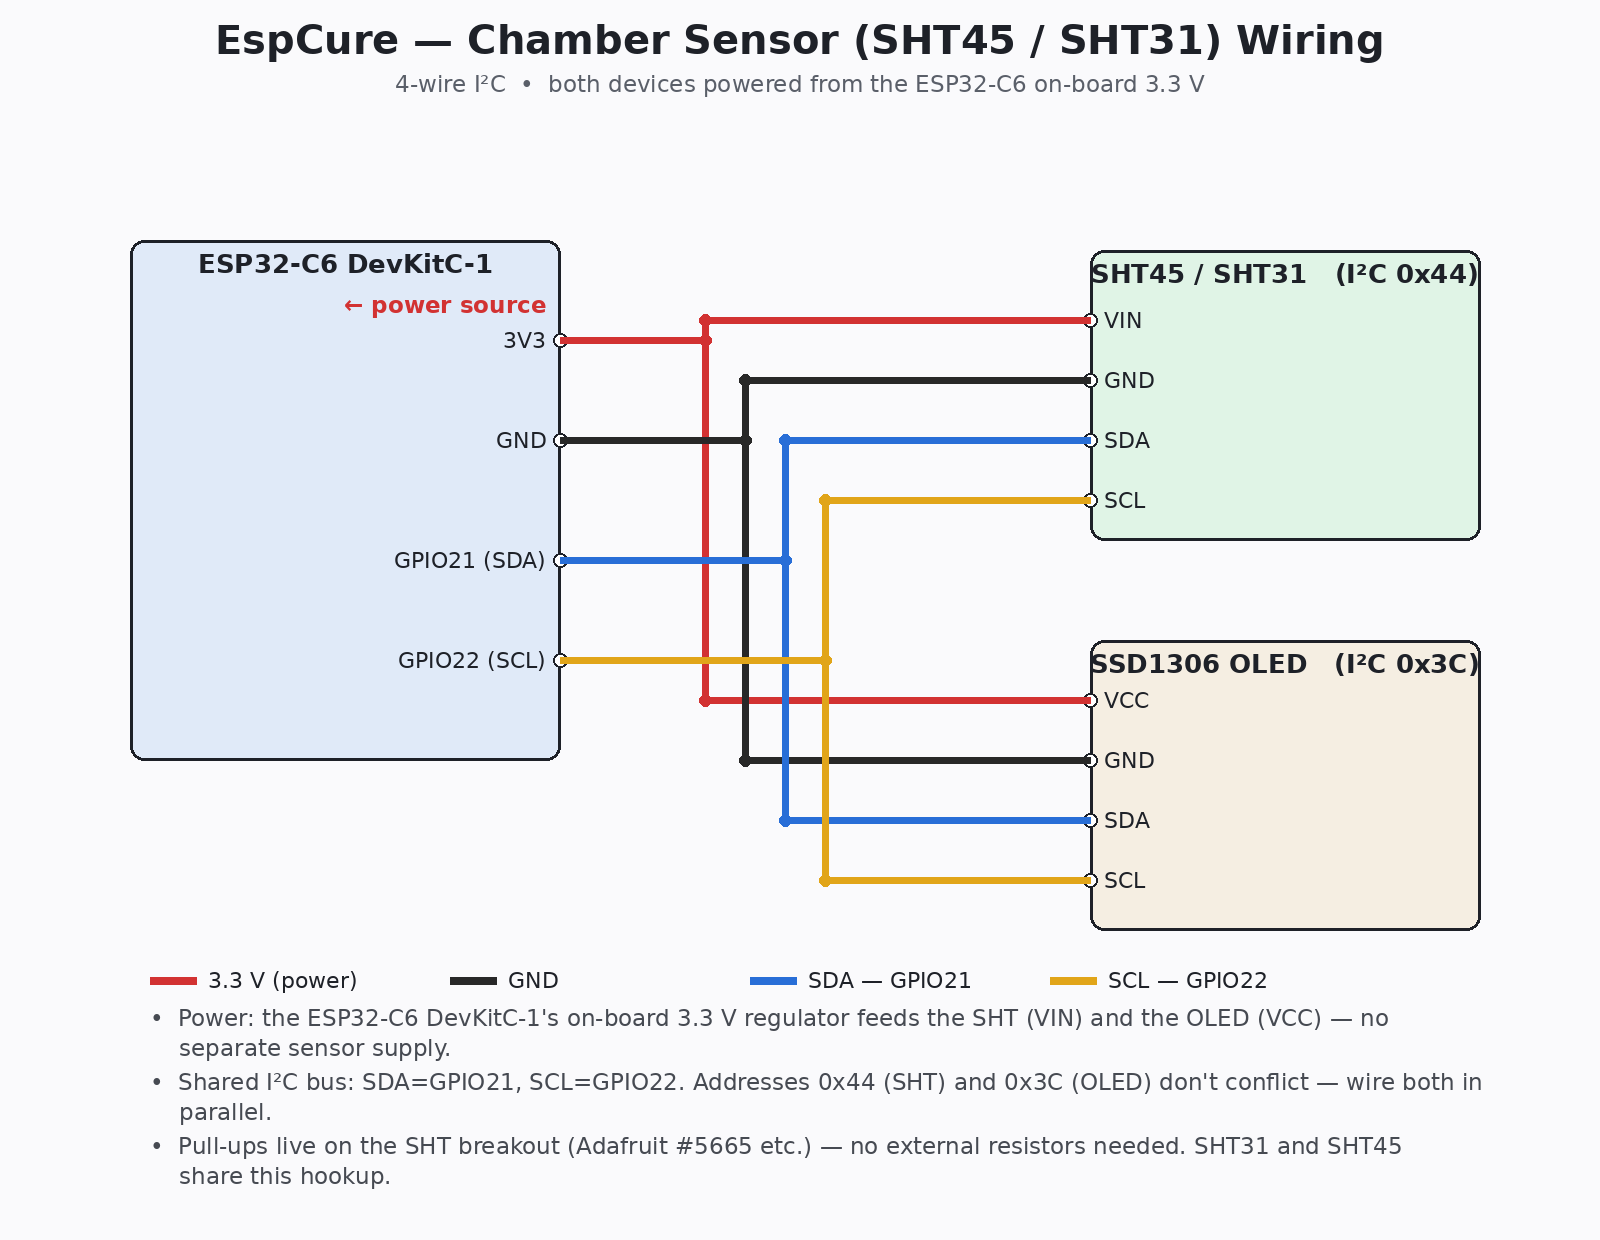
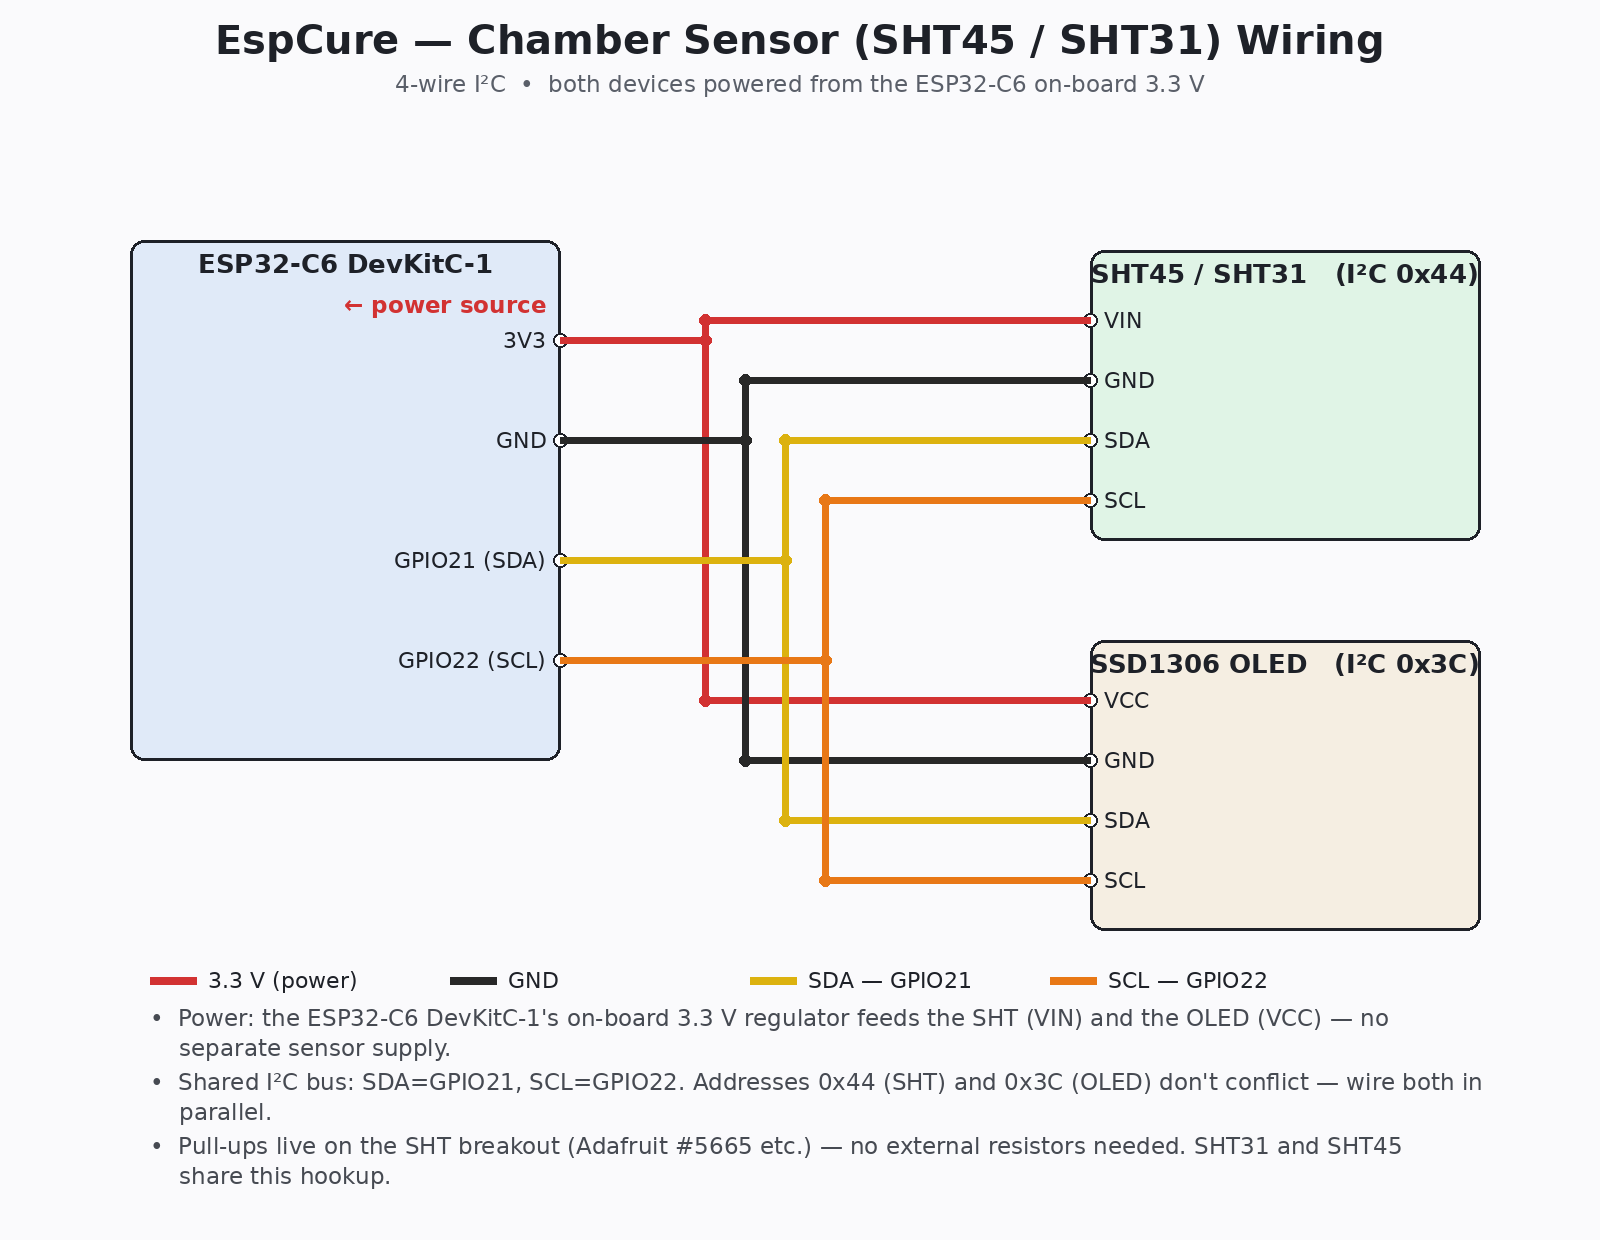
docs: update wiring-diagram colours and 5 V placement (#36)
- Sensor diagram: SDA is now yellow, SCL is now orange (were blue/gold).
- Control + power diagrams: the GPIO19 heater line is now grey (was red).
- Control diagram: the 5 V supply now enters the USB-C port at the top of
  the ESP board (buck directly above, straight drop) instead of wrapping a
  red wire across the inside of the box.

Regenerated all three PNGs. Docs only; no firmware change.

Claude-Session: https://claude.ai/code/session_013nDeaMFTWqkLxffonH31Dc

Changed region(s): [[0.3438, 0.3371, 0.6875, 0.7355], [0.6562, 0.7661, 0.6875, 0.7968], [0.4688, 0.7661, 0.5, 0.7968]]

diff --git a/docs/wiring_diagrams.py b/docs/wiring_diagrams.py
@@ -90,31 +90,33 @@ def control_diagram():
     d.text((W / 2, 84), "ESP32-C6 GPIO → SSR control inputs  •  on-board LED & button  •  I²C sensors on a separate diagram",
            font=F_SUB, fill=(90, 95, 105), anchor="mm")
 
-    # Buck (power in)
-    box(d, 120, 130, 430, 210, "Buck 12 V→5 V", (245, 238, 226), "feeds ESP 5 V / VIN")
-    bx = 430
-
     # ESP32-C6
     EX0, EY0, EX1, EY1 = 150, 270, 560, 940
     box(d, EX0, EY0, EX1, EY1, "ESP32-C6 DevKitC-1", (224, 234, 248))
     EPX = EX1
-    esp = [("5V / VIN", 330, RED), ("GND", 410, BLACK),
-           ("GPIO5", 520, TEAL), ("GPIO18", 610, BLUE), ("GPIO19", 700, RED),
+    # Power in: the buck feeds 5 V into the USB-C port at the top of the board,
+    # so it enters at the top edge rather than wrapping across the box.
+    USBX = EX0 + 100
+    box(d, USBX - 120, 140, USBX + 120, 215, "Buck 12 V→5 V", (245, 238, 226), "5 V via USB-C")
+    poly(d, [(USBX, 215), (USBX, EY0)], RED, 9)
+    d.rectangle([USBX - 22, EY0 - 7, USBX + 22, EY0 + 7], fill=(225, 228, 236), outline=INK, width=2)
+    dot(d, USBX, EY0, RED)
+    d.text((USBX + 34, 246), "5 V (USB-C)", font=F_PIN, fill=RED, anchor="lm")
+
+    esp = [("GND", 410, BLACK),
+           ("GPIO5", 520, TEAL), ("GPIO18", 610, BLUE), ("GPIO19", 700, GREY),
            ("GPIO8  (WS2812 LED)", 800, GREY), ("GPIO9  (BOOT btn)", 860, GREY)]
     for lbl, y, c in esp:
         pin(d, EPX, y, lbl, "right", c)
     # on-board note for LED/button
     d.text((EX0 + 24, 800), "on-board —", font=F_SM, fill=GREY, anchor="lm")
     d.text((EX0 + 24, 860), "no wiring", font=F_SM, fill=GREY, anchor="lm")
-    # buck -> ESP 5V
-    poly(d, [(280, 210), (280, 330), (EPX, 330)], RED)
-    dot(d, EPX, 330, RED)
 
     # SSR modules (right)
     ssr = [
         ("Fan rail SSR", "GPIO5", 250, 400, 300, 360, TEAL),
         ("Peltier SSR (TEC)", "GPIO18", 470, 620, 520, 580, BLUE),
-        ("Heater SSR (PTC)", "GPIO19", 690, 840, 740, 800, RED),
+        ("Heater SSR (PTC)", "GPIO19", 690, 840, 740, 800, GREY),
     ]
     SPX = 1150
     risers = {"GPIO5": 900, "GPIO18": 945, "GPIO19": 990}
@@ -146,7 +148,7 @@ def control_diagram():
     d.text((150, 990), "I²C sensors (SHT45/SHT31 + SSD1306 OLED) share GPIO21 (SDA) / GPIO22 (SCL) — see the sensor wiring diagram (sht_wiring.png).",
            font=F_NOTE, fill=(70, 74, 82), anchor="lm")
 
-    legend(d, 150, 1035, [("GPIO5 fan", TEAL), ("GPIO18 TEC", BLUE), ("GPIO19 heater", RED), ("GND common", BLACK)])
+    legend(d, 150, 1035, [("GPIO5 fan", TEAL), ("GPIO18 TEC", BLUE), ("GPIO19 heater", GREY), ("GND common", BLACK)])
     notes(d, 150, 1075, [
         "Each GPIO drives an SSR-40 DD control input (IN+); all SSR IN− share the ESP32 GND. Outputs are active-HIGH; GPIO18/19 run LEDC at 15 Hz.",
         "3.3 V control is at the SSR-40 DD minimum (3 V) — test each SSR triggers reliably; if marginal add a 2N2222 NPN driver on the GPIO line.",
@@ -188,7 +190,7 @@ def power_diagram():
     ssr = [
         ("Fan rail SSR", 360, 470, 415, TEAL),
         ("Peltier SSR (TEC)", 540, 650, 595, BLUE),
-        ("Heater SSR (PTC)", 720, 830, 775, RED),
+        ("Heater SSR (PTC)", 720, 830, 775, GREY),
     ]
     SX0, SX1 = 560, 880
     for title, y0, y1, my, color in ssr:

diff --git a/docs/sht_wiring.py b/docs/sht_wiring.py
@@ -31,8 +31,8 @@ F_LEG = font(22)
 
 RED = (210, 50, 50)      # 3.3 V power
 BLACK = (40, 40, 40)     # GND
-BLUE = (40, 110, 215)    # SDA
-GOLD = (225, 165, 25)    # SCL
+YELLOW = (220, 178, 15)  # SDA
+ORANGE = (232, 120, 22)  # SCL
 
 
 def box(x0, y0, x1, y1, title, fill):
@@ -98,15 +98,15 @@ for lbl, y in oled.items():
 # ── Wires ──────────────────────────────────────────────────────────────────
 wire(RED,   (EPX, 340), 705, 320, 700, SPX, OPX)  # 3.3 V
 wire(BLACK, (EPX, 440), 745, 380, 760, SPX, OPX)  # GND
-wire(BLUE,  (EPX, 560), 785, 440, 820, SPX, OPX)  # SDA
-wire(GOLD,  (EPX, 660), 825, 500, 880, SPX, OPX)  # SCL
+wire(YELLOW, (EPX, 560), 785, 440, 820, SPX, OPX)  # SDA
+wire(ORANGE, (EPX, 660), 825, 500, 880, SPX, OPX)  # SCL
 
 # Power callout on the 3V3 pin (answers "where does it get power?")
 d.text((EPX - 14, 305), "← power source", font=F_NOTE_B, fill=RED, anchor="rm")
 
 # ── Legend + notes ─────────────────────────────────────────────────────────
 LY = 980
-items = [("3.3 V (power)", RED), ("GND", BLACK), ("SDA — GPIO21", BLUE), ("SCL — GPIO22", GOLD)]
+items = [("3.3 V (power)", RED), ("GND", BLACK), ("SDA — GPIO21", YELLOW), ("SCL — GPIO22", ORANGE)]
 x = 150
 for lbl, c in items:
     d.line([x, LY, x + 46, LY], fill=c, width=8)